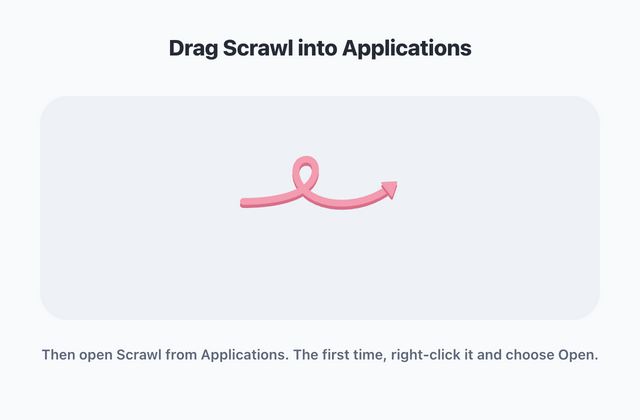
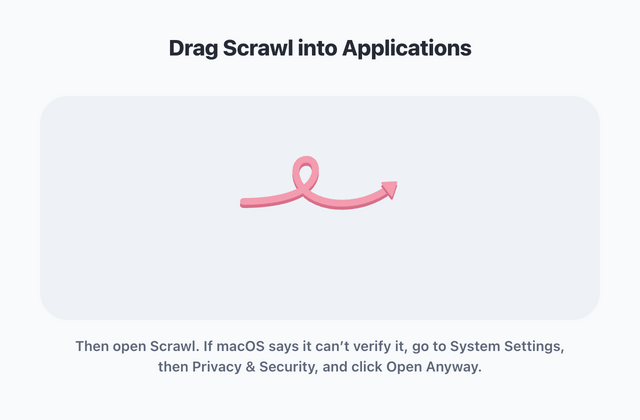
Changes

Changed region(s): [[0.0625, 0.8048, 0.9375, 0.8976]]

diff --git a/docs/index.html b/docs/index.html
@@ -105,6 +105,25 @@
   .steps strong { color: var(--ink); font-weight: 800; }
   kbd { font-family: inherit; font-weight: 800; color: var(--ink); background: var(--card); box-shadow: 0 2px 0 var(--card-lip); border-radius: 6px; padding: 0 6px; }
 
+  .steps em { font-style: normal; font-weight: 800; color: var(--ink); }
+
+  /* Optional Terminal route: tucked away, opens with a click. */
+  .terminal { max-width: 33em; margin: 22px auto 0; padding-left: 50px; color: var(--ink-2); font-weight: 600; font-size: 15px; }
+  .terminal summary { cursor: pointer; font-weight: 800; color: var(--ink); list-style: none; display: inline-flex; align-items: center; gap: 8px; }
+  .terminal summary::-webkit-details-marker { display: none; }
+  .terminal summary::before { content: ""; width: 8px; height: 8px; border-right: 2.5px solid var(--pink-lip); border-bottom: 2.5px solid var(--pink-lip); rotate: -45deg; transition: rotate 300ms var(--bouncy); }
+  .terminal[open] summary::before { rotate: 45deg; }
+  .terminal p { margin: 10px 0 0; }
+  .cmd { margin-top: 10px; display: flex; align-items: center; gap: 10px; padding: 10px 10px 10px 16px; border-radius: 16px; background: var(--card); box-shadow: 0 4px 0 var(--card-lip); }
+  .cmd code { flex: 1; min-width: 0; overflow-x: auto; white-space: nowrap; font-family: ui-monospace, "SF Mono", Menlo, monospace; font-size: 13px; color: var(--ink); }
+  .cmd button {
+    flex: none; border: 0; cursor: pointer; font: inherit; font-size: 13px; font-weight: 800; color: var(--ink);
+    height: 32px; padding: 0 14px; border-radius: 16px; background: var(--pink); box-shadow: 0 3px 0 var(--pink-lip);
+    transition: transform 180ms var(--bouncy), box-shadow 180ms var(--bouncy);
+  }
+  .cmd button:active { transform: translateY(2px); box-shadow: 0 1px 0 var(--pink-lip); }
+  @media (max-width: 600px) { .terminal { padding-left: 0; } }
+
   footer { text-align: center; color: var(--ink-2); font-size: 14px; font-weight: 600; padding: 72px 24px 48px; }
   footer a { font-weight: 800; text-decoration-color: var(--pink); text-decoration-thickness: 2px; text-underline-offset: 3px; }
 
@@ -182,9 +201,18 @@
 
     <ol class="steps">
       <li><span><strong>Drag Scrawl into Applications.</strong> Then you can eject the Scrawl disk.</span></li>
-      <li><span><strong>Right-click Scrawl and choose Open</strong> the first time. Scrawl isn’t from the App Store, so macOS asks you to confirm once.</span></li>
+      <li><span><strong>Open Scrawl, then allow it once.</strong> Scrawl isn’t from the App Store, so the first time macOS says it can’t verify it. Click <em>Done</em>, open System Settings, then Privacy &amp; Security, scroll down and click <em>Open Anyway</em> next to Scrawl. Confirm with your password or Touch ID. After that it opens like any other app.</span></li>
       <li><span><strong>Turn on Scrawl in Accessibility.</strong> Open System Settings, then Privacy &amp; Security, then Accessibility. Scrawl needs this to notice when you hold <kbd>⌥</kbd>.</span></li>
     </ol>
+
+    <details class="terminal">
+      <summary>Or use Terminal instead of step 2</summary>
+      <p>This tells macOS you trust the copy of Scrawl you downloaded, so it opens without the warning.</p>
+      <div class="cmd">
+        <code id="cmd">xattr -dr com.apple.quarantine /Applications/Scrawl.app</code>
+        <button type="button" id="copy">Copy</button>
+      </div>
+    </details>
   </section>
 </main>
 
@@ -193,6 +221,19 @@
 </footer>
 
 <script>
+  // Copy the Terminal command; the button says "Copied" for a moment so you know it worked.
+  document.getElementById('copy').addEventListener('click', async (e) => {
+    const btn = e.currentTarget;
+    try {
+      await navigator.clipboard.writeText(document.getElementById('cmd').textContent);
+      btn.textContent = 'Copied';
+    } catch {
+      getSelection().selectAllChildren(document.getElementById('cmd'));
+      btn.textContent = 'Press ⌘C';
+    }
+    setTimeout(() => { btn.textContent = 'Copy'; }, 1800);
+  });
+
   const isMac = /Macintosh|Mac OS X/.test(navigator.userAgent);
   const fine = document.getElementById('fine');
   const button = document.getElementById('download');

diff --git a/scripts/dmg-background.js b/scripts/dmg-background.js
@@ -6,7 +6,7 @@ const fs = require('fs');
 const path = require('path');
 
 const W = 640, H = 420;
-const html = `<!doctype html><html><head><style>
+const html = `<!doctype html><html><head><meta charset="utf-8"><style>
   html, body { margin: 0; overflow: hidden; } body { width: ${W}px; height: ${H}px; position: relative; }
   body { background: #F8FAFC; font-family: ui-rounded, "SF Pro Rounded", system-ui, sans-serif; color: #262B36; -webkit-font-smoothing: antialiased; }
   /* A soft paper floor under the icons, like the card on the website. */
@@ -17,7 +17,7 @@ const html = `<!doctype html><html><head><style>
   .head { fill: #F49CB0; stroke: #F49CB0; stroke-width: 4; stroke-linejoin: round; }
   .head-lip { fill: #D96F8A; stroke: #D96F8A; stroke-width: 4; stroke-linejoin: round; }
   h1 { position: absolute; top: 34px; width: 100%; margin: 0; text-align: center; font-size: 22px; font-weight: 800; letter-spacing: -0.01em; }
-  p { position: absolute; top: 346px; width: 100%; margin: 0; text-align: center; font-size: 14px; font-weight: 600; color: #5E6779; }
+  p { position: absolute; top: 336px; left: 70px; right: 70px; margin: 0; text-align: center; font-size: 14px; line-height: 1.45; font-weight: 600; color: #5E6779; }
 </style></head><body>
   <h1>Drag Scrawl into Applications</h1>
   <div class="floor"></div>
@@ -26,7 +26,7 @@ const html = `<!doctype html><html><head><style>
     <path class="ink" id="ink" d="M14 98 C62 98 120 90 142 62 C160 38 150 14 130 18 C106 23 108 64 142 86 C184 112 252 104 294 70"/>
     <path class="head-lip" id="headLip" transform="translate(0 6)"/><path class="head" id="head"/>
   </svg>
-  <p>Then open Scrawl from Applications. The first time, right-click it and choose Open.</p>
+  <p>Then open Scrawl. If macOS says it can’t verify it, go to System Settings, then Privacy &amp; Security, and click Open Anyway.</p>
   <script>
     const ink = document.getElementById('ink'), len = ink.getTotalLength();
     const end = ink.getPointAtLength(len), back = ink.getPointAtLength(len - 8);
